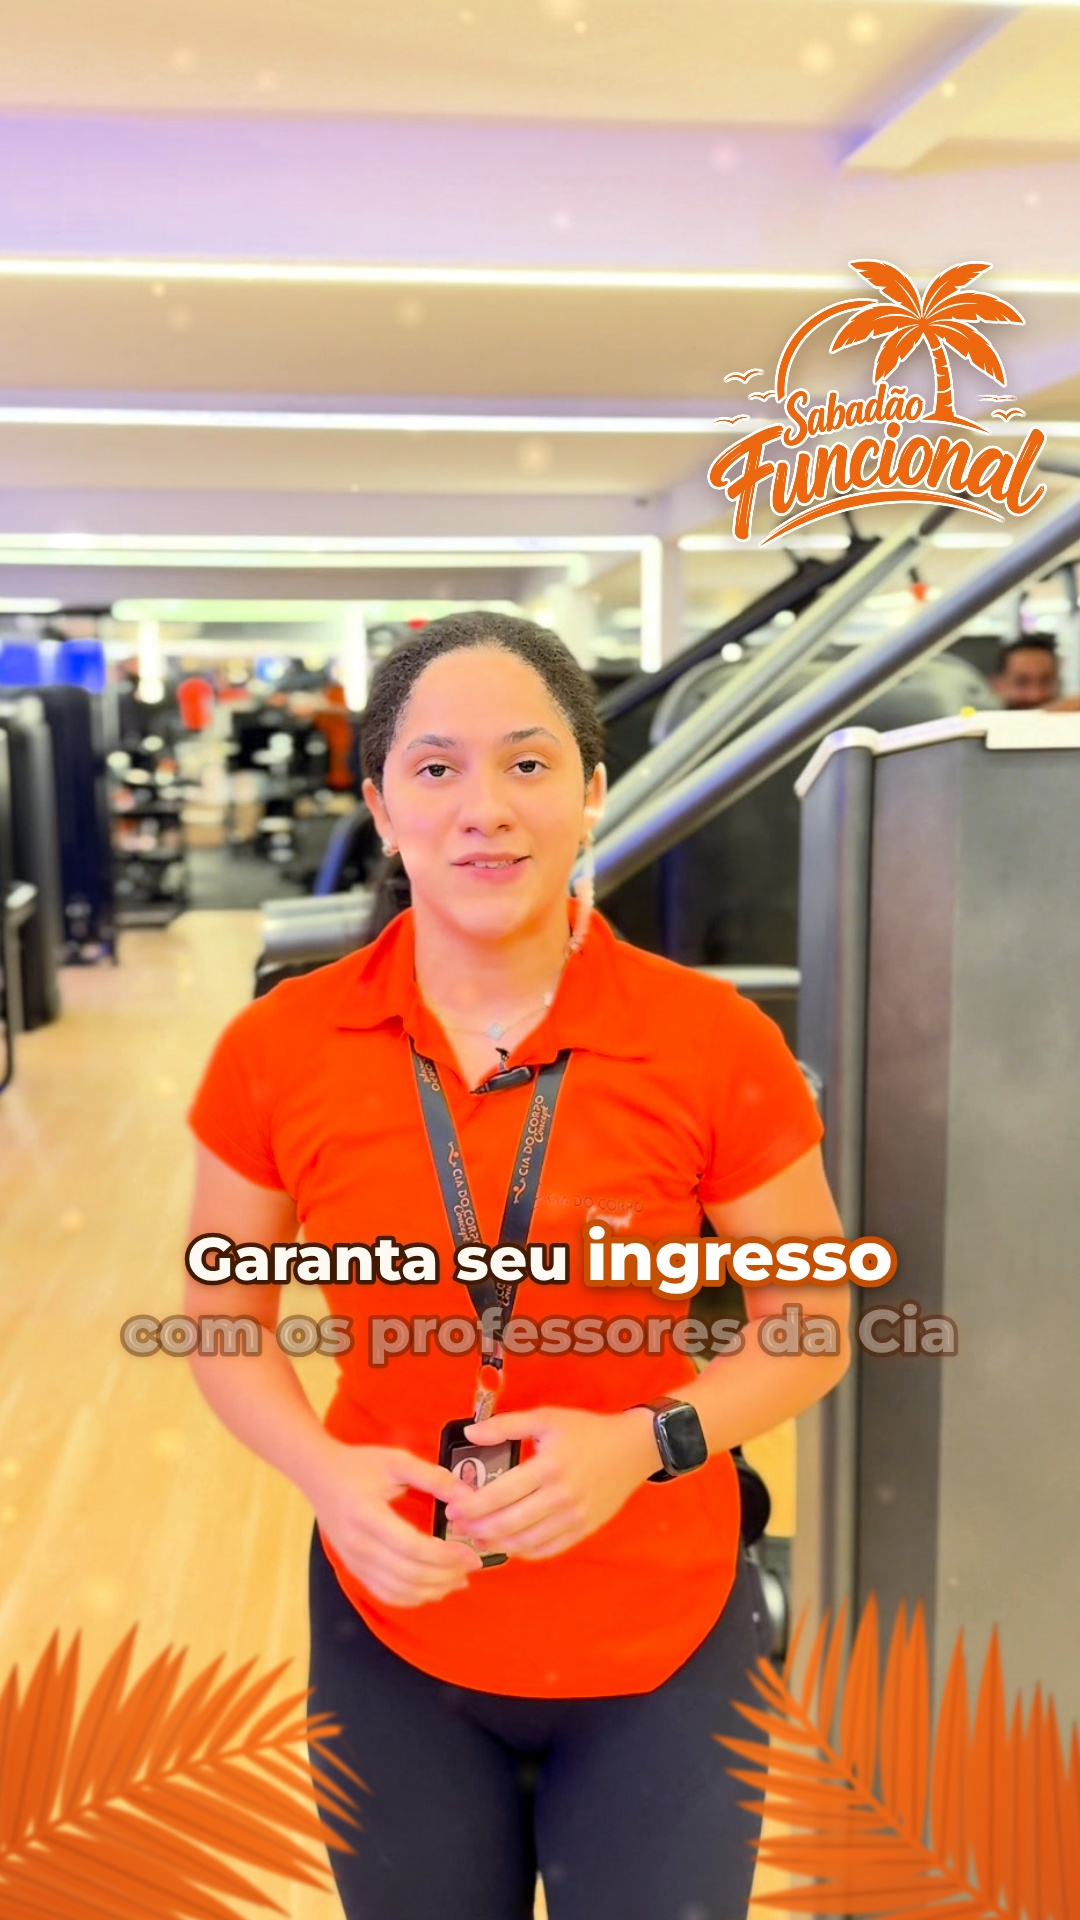
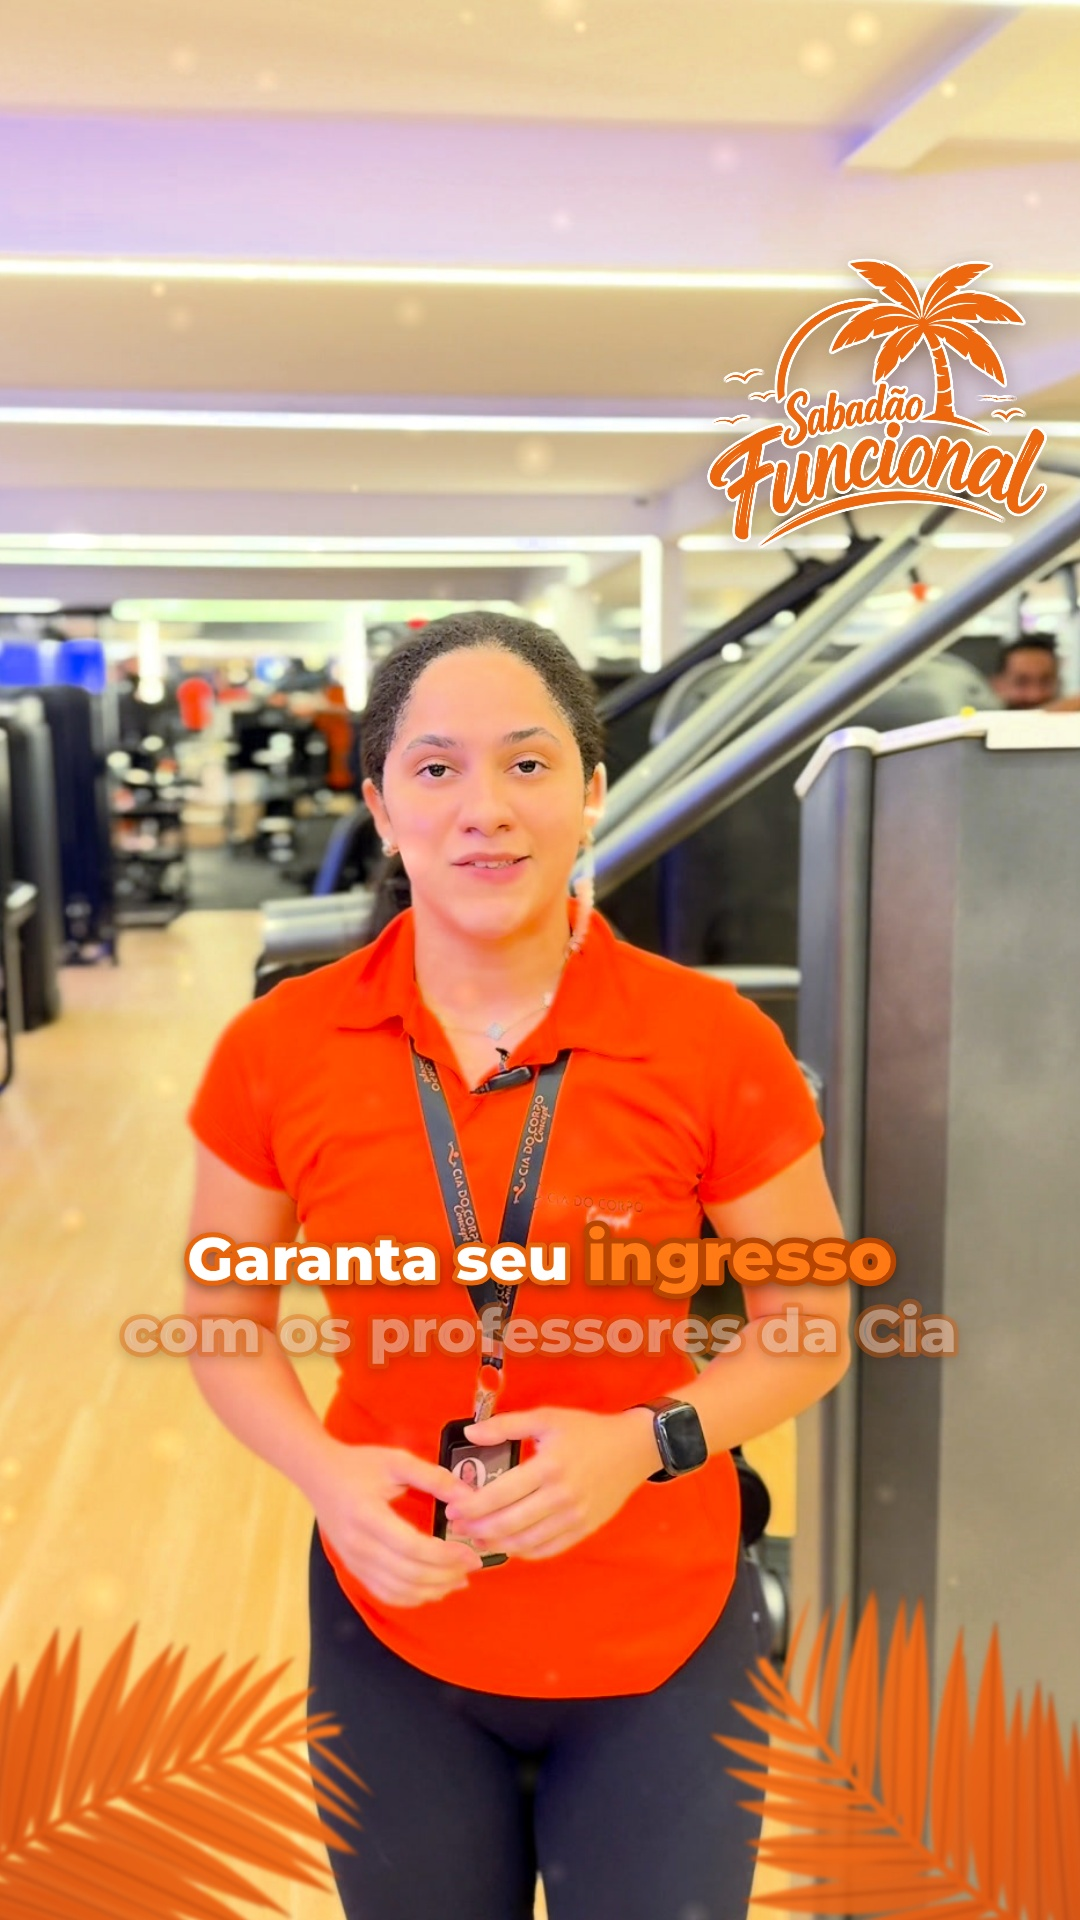
Reel captions: white with orange outline, keywords fully orange
Claude-Session: https://claude.ai/code/session_01Dn6hQhGwoSvayfpcAMo7Gh

Changed region(s): [[0.0917, 0.625, 0.8861, 0.7188]]

diff --git a/video/sabadao-funcional/project/js/reel.js b/video/sabadao-funcional/project/js/reel.js
@@ -214,31 +214,18 @@
         g.translate(cx, y);
         g.scale(s, s);
         g.textAlign = "center";
-        if (key && spoken) {
-          // keyword: white letter, orange outline (brand burnt orange, 4.6:1
-          // against the white), soft dark halo outside so it holds on the shirts
-          g.shadowColor = "rgba(45,15,0,0.6)";
-          g.shadowBlur = 14;
-          g.shadowOffsetY = 3;
-          g.strokeStyle = "#C84E00";
-          g.lineWidth = 12;
-          g.strokeText(txt, 0, 0);
-          g.shadowColor = "transparent";
-          g.fillStyle = "#FFFFFF";
-          g.fillText(txt, 0, 0);
-        } else {
-          // soft orange glow (model) + dark outline (contrast on the orange shirts)
-          g.shadowColor = "rgba(230,100,30,0.55)";
-          g.shadowBlur = 16;
-          g.strokeStyle = "#4a1e05";
-          g.lineWidth = 9;
-          g.strokeText(txt, 0, 0);
-          g.shadowColor = "rgba(40,12,0,0.45)";
-          g.shadowBlur = 10;
-          g.shadowOffsetY = 4;
-          g.fillStyle = "#FDF9F3";
-          g.fillText(txt, 0, 0);
-        }
+        // reference style: white letter, orange outline, soft shadow;
+        // keywords entirely orange (fill + darker orange outline)
+        const hl = key && spoken;
+        g.shadowColor = "rgba(50,18,0,0.5)";
+        g.shadowBlur = 12;
+        g.shadowOffsetY = 4;
+        g.strokeStyle = hl ? "#B84500" : "#E8650C";
+        g.lineWidth = 10;
+        g.strokeText(txt, 0, 0);
+        g.shadowColor = "transparent";
+        g.fillStyle = hl ? "#FF7A14" : "#FFFFFF";
+        g.fillText(txt, 0, 0);
         g.restore();
         x += widths[wi] + space;
       });
